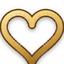
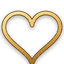
Wedding: replace gallery with Travel & Stay; uncut script titles; thinner heart
- An invitation has no wedding photos yet, so the gallery (and its photo
  viewer) becomes a Travel & Stay section: getting there by plane, train
  and the wedding shuttle, and where to stay (example hotels with map
  links), all editable in the CONFIG block.
- Gold script words get room for their swashes, so the J of "join us?"
  and similar letters are no longer cut off.
- Heart cursor outline is about half as thick.

Claude-Session: https://claude.ai/code/session_01UYiQU72U3fb1uq6J5MGyft

diff --git a/wedding/index.html b/wedding/index.html
@@ -38,6 +38,8 @@ body:after{content:"";position:fixed;inset:-50%;z-index:200;pointer-events:none;
 @keyframes shine{to{background-position:-220% 0}}
 .h2{font-family:var(--display);font-weight:300;font-size:clamp(44px,7vw,92px);line-height:1;letter-spacing:.02em;margin:.25em 0 .35em}
 .h2 em{font-family:var(--script);font-style:normal;font-size:1.05em;letter-spacing:0}
+/* gold script words are painted inside their own box; give the swashes room so letters like J are not cut */
+.h2 em.foil,.guest.foil,footer .big.foil,.thanks .t.foil,.ev h3.foil{padding:0 .24em .14em .34em;margin:0 -.24em 0 -.34em}
 section{position:relative;padding:clamp(90px,13vw,170px) 0}
 .center{text-align:center}
 .dark{background:var(--night);color:var(--ivory)}
@@ -220,27 +222,25 @@ section{position:relative;padding:clamp(90px,13vw,170px) 0}
 .sw:hover{transform:translateY(-12px)}
 .note{color:var(--ink2);font-style:italic;max-width:540px;margin:0 auto}
 
-/* ============ GALLERY ============ */
-#gallery{background:var(--paper)}
-.gal{display:grid;grid-template-columns:repeat(12,1fr);grid-auto-rows:clamp(70px,9vw,120px);gap:clamp(10px,1.4vw,18px);margin-top:60px}
-.gal .frame{cursor:zoom-in}
-.gal .frame img{transform:scale(1.15)}
-.gal .g0{grid-column:1/6;grid-row:span 5}
-.gal .g1{grid-column:6/10;grid-row:span 3}
-.gal .g2{grid-column:10/13;grid-row:span 4}
-.gal .g3{grid-column:6/10;grid-row:span 4}
-.gal .g4{grid-column:1/6;grid-row:span 3}
-.gal .g5{grid-column:10/13;grid-row:span 3}
-@media (max-width:700px){
-  .gal{grid-template-columns:1fr 1fr;grid-auto-rows:120px}
-  .gal .frame{grid-column:auto!important;grid-row:span 2!important}
-  .gal .g0{grid-column:1/3!important;grid-row:span 3!important}
-}
-#lightbox{position:fixed;inset:0;z-index:180;background:rgba(14,12,10,.96);display:none;align-items:center;justify-content:center}
-#lightbox.on{display:flex}
-#lightbox img{max-width:90vw;max-height:84vh;object-fit:contain}
-#lightbox button{position:absolute;color:var(--ivory);font-family:var(--sans);font-size:11px;letter-spacing:.3em;text-transform:uppercase;padding:18px}
-#lightbox .x{top:10px;right:14px}#lightbox .pv{left:8px;top:50%;transform:translateY(-50%)}#lightbox .nx{right:8px;top:50%;transform:translateY(-50%)}
+/* ============ TRAVEL & STAY ============ */
+#travel{background:var(--paper)}
+.tr-intro{max-width:620px;margin:0 auto;color:var(--ink2);font-style:italic;font-size:21px}
+.tr-get{display:grid;grid-template-columns:repeat(auto-fit,minmax(min(100%,260px),1fr));gap:clamp(16px,2.5vw,32px);margin-top:56px}
+.tr-card{position:relative;background:var(--ivory);padding:44px 30px 38px;text-align:center}
+.tr-card:before{content:"";position:absolute;inset:10px;border:1px solid rgba(184,148,90,.35);pointer-events:none}
+.tr-card svg{width:46px;height:46px;color:var(--gold);margin:0 auto 14px;display:block}
+.tr-card svg *{fill:none;stroke:currentColor;stroke-width:1.1;stroke-linecap:round;stroke-linejoin:round}
+.tr-card h3{font-weight:400;font-size:28px;line-height:1.15;margin-bottom:10px}
+.tr-card p{color:var(--ink2);font-size:18px;line-height:1.55}
+.tr-sub{font-family:var(--sans);font-weight:400;font-size:11px;letter-spacing:.42em;text-transform:uppercase;color:var(--gold);margin:80px 0 26px}
+.tr-hotels{display:grid;grid-template-columns:repeat(auto-fit,minmax(min(100%,260px),1fr));border-top:1px solid var(--line)}
+.hotel{padding:30px 24px;border-bottom:1px solid var(--line);text-align:center}
+.tr-hotels .hotel+.hotel{border-left:1px solid var(--line)}
+.hotel h4{font-weight:400;font-size:26px;line-height:1.2}
+.hotel .meta{font-family:var(--sans);font-size:10px;letter-spacing:.3em;text-transform:uppercase;color:var(--ink2);margin:10px 0 4px}
+.hotel .price{color:var(--gold);letter-spacing:.2em;font-size:16px}
+.hotel .link{margin-top:16px;color:var(--ink)}
+@media (max-width:860px){ .tr-hotels .hotel+.hotel{border-left:0} }
 
 /* ============ GIFTS ============ */
 .gift-text{max-width:640px;margin:0 auto;font-size:22px;font-style:italic;color:rgba(245,239,230,.8)}
@@ -331,7 +331,7 @@ footer .fine{margin-top:110px;font-family:var(--sans);font-size:10px;letter-spac
 /* golden heart cursor (mouse and trackpad only; touch screens have no cursor) */
 @media (pointer:fine){
   html,body{cursor:url(media/cursor-heart.png) 16 17,auto;cursor:-webkit-image-set(url(media/cursor-heart.png) 1x,url(media/cursor-heart@2x.png) 2x) 16 17,auto}
-  a,button,[role=button],label,summary,select,.choice label,.gal .frame,.qa button,.stepper button,#opening:not(.playing):not(.done){
+  a,button,[role=button],label,summary,select,.choice label,.qa button,.stepper button,#opening:not(.playing):not(.done){
     cursor:url(media/cursor-heart-hover.png) 16 17,pointer;cursor:-webkit-image-set(url(media/cursor-heart-hover.png) 1x,url(media/cursor-heart-hover@2x.png) 2x) 16 17,pointer}
   input,textarea{cursor:text}
 }
@@ -457,12 +457,15 @@ footer .fine{margin-top:110px;font-family:var(--sans);font-size:10px;letter-spac
   </div>
 </section>
 
-<!-- ============ GALLERY ============ -->
-<section id="gallery" data-label="Gallery" class="center">
+<!-- ============ TRAVEL & STAY ============ -->
+<section id="travel" data-label="Travel &amp; Stay" class="center">
   <div class="wrap">
-    <div class="label rv">Moments</div>
-    <h2 class="h2 rv">Our <em class="foil">Gallery</em></h2>
-    <div class="gal" id="gal"></div>
+    <div class="label rv">Plan your trip</div>
+    <h2 class="h2 rv">Travel <em class="foil">&amp;</em> Stay</h2>
+    <p class="tr-intro rv" id="travelIntro"></p>
+    <div class="tr-get" id="travelGet"></div>
+    <h3 class="tr-sub rv">Where to stay</h3>
+    <div class="tr-hotels" id="travelHotels"></div>
   </div>
 </section>
 
@@ -526,7 +529,6 @@ footer .fine{margin-top:110px;font-family:var(--sans);font-size:10px;letter-spac
 
 <button id="music" aria-label="Play or pause music"><span class="eq"><i></i><i></i><i></i><i></i></span><span id="musicTxt">Sound</span></button>
 <audio id="audio" loop preload="none"></audio>
-<div id="lightbox" role="dialog" aria-label="Photo"><button class="x">Close ×</button><button class="pv">← Prev</button><img alt=""><button class="nx">Next →</button></div>
 <div id="toast" role="status"></div>
 
 <script src="vendor/gsap.min.js"></script>
@@ -570,14 +572,20 @@ const WEDDING = {
   dress: { title: "Black tie — garden elegance",
            colors: ["#d9b8a8","#c8a874","#8f9b80","#e8dccb","#5a4a3f"],
            note: "Kindly reserve white and ivory for the bride. Block heels are recommended for the garden." },
-  gallery: [
-    "https://images.unsplash.com/photo-1511285560929-80b456fea0bc?w=1400&q=80",
-    "https://images.unsplash.com/photo-1606800052052-a08af7148866?w=1000&q=80",
-    "https://images.unsplash.com/photo-1583939003579-730e3918a45a?w=1000&q=80",
-    "https://images.unsplash.com/photo-1507504031003-b417219a0fde?w=1000&q=80",
-    "https://images.unsplash.com/photo-1460978812857-470ed1c77af0?w=1400&q=80",
-    "https://images.unsplash.com/photo-1465495976277-4387d4b0b4c6?w=1000&q=80"
-  ],
+  travel: {
+    intro: "Sintra is a short trip from Lisbon. Here is everything you need to plan your stay.",
+    getting: [
+      { icon:"plane", title:"By plane", text:"Fly into Lisbon Humberto Delgado Airport (LIS). Sintra is about 35 minutes away by taxi or ride-share." },
+      { icon:"train", title:"By train", text:"Trains run from Lisbon Rossio station to Sintra about every 20 minutes. The ride takes around 40 minutes." },
+      { icon:"bus",   title:"Wedding shuttle", text:"A shuttle will take guests from Sintra town centre to the reception at 18:00, returning at 01:00 and 02:30." }
+    ],
+    /* example hotels — replace with your own recommendations */
+    hotels: [
+      { name:"Tivoli Palácio de Seteais", meta:"Luxury · near the reception", price:"€€€", url:"https://www.google.com/maps/search/Tivoli+Pal%C3%A1cio+de+Seteais+Sintra" },
+      { name:"Sintra Boutique Hotel", meta:"Boutique · town centre", price:"€€", url:"https://www.google.com/maps/search/Sintra+Boutique+Hotel" },
+      { name:"Guesthouses in Sintra", meta:"Charming · walk to the train", price:"€", url:"https://www.google.com/maps/search/guest+house+Sintra" }
+    ]
+  },
   gifts: { text: "Your presence is the greatest gift of all. Should you wish to honour us further, a contribution towards our honeymoon would be deeply appreciated.",
            rows: [["Account holder","Sofia Lopes"],["IBAN","PT50 0000 0000 0000 0000 0000 0"],["MB Way","+351 900 000 000"]] },
   rsvp: { deadline: "2027-05-01", whatsapp: "351900000000", email: "rsvp@example.com", defaultSeats: 2 },
@@ -670,14 +678,14 @@ $("#swatches").innerHTML = W.dress.colors.map(c=>`<div class="sw" style="backgro
 $("#dressNote").textContent = W.dress.note;
 
 /* gallery + lightbox */
-$("#gal").innerHTML = W.gallery.map((g,i)=>frame(g,"g"+(i%6),`data-i="${i}"`)).join("");
-const lb=$("#lightbox"), lbImg=lb.querySelector("img"); let lbI=0;
-const shown = () => W.gallery.filter((_,i)=>$(`#gal [data-i="${i}"] img`));
-const openLb = i => { lbI=(i+W.gallery.length)%W.gallery.length; lbImg.src=W.gallery[lbI].replace(/w=\d+/,"w=2000"); lb.classList.add("on"); lenis&&lenis.stop(); };
-const closeLb = () => { lb.classList.remove("on"); lenis&&lenis.start(); };
-$("#gal").addEventListener("click", e => { const f=e.target.closest(".frame"); if(f && f.querySelector("img")) openLb(+f.dataset.i); });
-lb.addEventListener("click", e => { if(e.target.closest(".pv")) openLb(lbI-1); else if(e.target.closest(".nx")) openLb(lbI+1); else if(e.target!==lbImg) closeLb(); });
-addEventListener("keydown", e => { if(!lb.classList.contains("on")) return; if(e.key==="Escape") closeLb(); if(e.key==="ArrowRight") openLb(lbI+1); if(e.key==="ArrowLeft") openLb(lbI-1); });
+const TRAVEL_ICONS = {
+  plane:`<svg viewBox="0 0 48 48"><path d="M6 27l14-3 9-15c1-2 4-2 4 1l-3 13 11-2c2 0 3 2 1 3l-11 4 3 12c0 2-2 3-3 1l-7-10-14 3c-2 0-3-2-1-3z"/></svg>`,
+  train:`<svg viewBox="0 0 48 48"><rect x="12" y="6" width="24" height="30" rx="6"/><path d="M12 22h24M18 30h1M29 30h1M17 36l-5 7M31 36l5 7M15 43h18"/></svg>`,
+  bus:`<svg viewBox="0 0 48 48"><rect x="8" y="9" width="32" height="27" rx="4"/><path d="M8 24h32M8 16h32M14 30h2M32 30h2M13 36v5M35 36v5"/></svg>`
+};
+$("#travelIntro").textContent = W.travel.intro;
+$("#travelGet").innerHTML = W.travel.getting.map(g=>`<div class="tr-card rv">${TRAVEL_ICONS[g.icon]||""}<h3>${esc(g.title)}</h3><p>${esc(g.text)}</p></div>`).join("");
+$("#travelHotels").innerHTML = W.travel.hotels.map(h=>`<div class="hotel rv"><h4>${esc(h.name)}</h4><div class="meta">${esc(h.meta)}</div><div class="price">${esc(h.price)}</div><a class="link" href="${esc(h.url)}" target="_blank" rel="noopener">View on map ${arrow}</a></div>`).join("");
 
 /* gifts */
 $("#giftText").textContent = W.gifts.text;
@@ -845,13 +853,6 @@ function buildScroll(){
 
   /* swatches */
   gsap.fromTo(".sw",{y:60,opacity:0},{y:0,opacity:1,stagger:.1,duration:1.2,ease:"expo.out",scrollTrigger:{trigger:"#swatches",start:"top 85%"}});
-
-  /* gallery: curtain reveal + inner parallax */
-  $$(".gal .frame").forEach((f,i)=>{
-    gsap.fromTo(f,{clipPath:"inset(0 0 100% 0)"},{clipPath:"inset(0 0 0% 0)",duration:1.6,ease:"expo.inOut",delay:(i%3)*.12,scrollTrigger:{trigger:f,start:"top 90%"}});
-    const img=f.querySelector("img");
-    if(img) gsap.fromTo(img,{yPercent:-8},{yPercent:8,ease:"none",scrollTrigger:{trigger:f,start:"top bottom",end:"bottom top",scrub:true}});
-  });
 
   /* footer names */
   gsap.fromTo("#footNames",{scale:.85,opacity:0},{scale:1,opacity:1,ease:"none",scrollTrigger:{trigger:"footer",start:"top 85%",end:"center center",scrub:true}});
